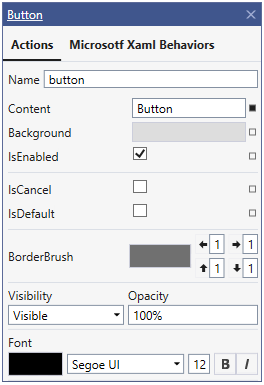
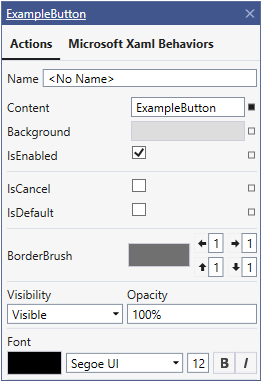
Code Review Fixes

diff --git a/documents/xaml-suggested-actions/xaml-designer-suggested-actions-extensibility.md b/documents/xaml-suggested-actions/xaml-designer-suggested-actions-extensibility.md
@@ -5,82 +5,85 @@
 - [Behaviors](./xaml-designer-suggested-actions-extensibility-behaviors.md)
 - [Customization](./xaml-designer-suggested-actions-extensibility-customization.md)
 
-Starting from Visual Studio 2019 16.7 Preview 3 we added extensibility support for "XAML Suggested Actions"
+In Visual Studio 2019 16.7 Preview 3 we added extensibility support for "XAML Suggested Actions"
 >*Note: this API will be available only in Preview Channel until feature is finalized and completed*
 
-To enable "Xaml Suggested Actions" for any control, `SuggestedActionProvider` feature provider should be created and registered in metadata.
+To enable "Xaml Suggested Actions" for any control, a `SuggestedActionProvider` feature provider should be created and registered in metadata.
 
->*Control could have multiple Suggested Actions providers. Each separate provider will be shown as a separate tab in UI.*
+>*A Control could have multiple Suggested Actions providers. Each provider will be shown as a separate tab in the Suggested Actions UI.*
 
-Example for Button:
+Example:
+```cs
+public class ExampleButton : Button { }
+```
 
 ![extensibility-migration-architecture](xaml-suggested-actions.png)
 
 ### Implementation for example above:
 ```CS
-public class ButtonActionProvider : SuggestedActionProvider
+public class ExampleButtonSuggestedActionProvider : SuggestedActionProvider
 {
-    public static ActionToken Token_Group_Common        = SuggestedActionProviderTokens.Token_Group_Common;
-    public static ActionToken Token_Group_Specific      = SuggestedActionProviderTokens.Token_Group_Specific;
-    public static ActionToken Token_Property_Background = SuggestedActionProviderTokens.Token_Property_Background;
-    public static ActionToken Token_Property_Content    = SuggestedActionProviderTokens.Token_Property_Content;
-    public static ActionToken Token_Property_IsEnabled  = SuggestedActionProviderTokens.Token_Property_IsEnabled;
-    public static ActionToken Token_Property_IsCancel   = new ActionToken(0x1001);
-    public static ActionToken Token_Property_IsDefault  = new ActionToken(0x1002);
+    public static ActionToken Token_Property_IsCancel = new ActionToken(0x1001);
+    public static ActionToken Token_Property_IsDefault = new ActionToken(0x1002);
     public static ActionToken Token_Last = new ActionToken(0x10FF);
-    
-    public override string Header { get => "Actions"; }
-    public override string Type { get => "System.Windows.Controls.Button"; }
-    
+    public override string Header => "Actions";
+    public override string Type => "CustomControlLibrary.WpfCore.ExampleButton";
     public override void Initialize()
     {
         this.ShowNameProperty = true;
         base.Initialize();
-        this.AddGroup(new ActionGroup(ButtonActionProvider.Token_Group_Common,
-            new PropertyAction(ButtonActionProvider.Token_Property_Content, "Content"),
-            new PropertyAction(ButtonActionProvider.Token_Property_Background, "Background"),
-            new PropertyAction(ButtonActionProvider.Token_Property_IsEnabled, "IsEnabled")
-            )); ;
-        this.AddGroup(new ActionGroup(ButtonActionProvider.Token_Group_Specific,
-            new PropertyAction(ButtonActionProvider.Token_Property_IsCancel, "IsCancel"),
-            new PropertyAction(ButtonActionProvider.Token_Property_IsDefault, "IsDefault")));
+        
+        this.AddGroup(new ActionGroup(SuggestedActionProviderTokens.Token_Group_Common,
+            new PropertyAction(SuggestedActionProviderTokens.Token_Property_Content, "Content"),
+            new PropertyAction(SuggestedActionProviderTokens.Token_Property_Background, "Background"),
+            new PropertyAction(SuggestedActionProviderTokens.Token_Property_IsEnabled, "IsEnabled")
+            ));
+        
+        this.AddGroup(new ActionGroup(SuggestedActionProviderTokens.Token_Group_Specific,
+            new PropertyAction(ExampleButtonSuggestedActionProvider.Token_Property_IsCancel,"IsCancel"),
+            new PropertyAction(ExampleButtonSuggestedActionProvider.Token_Property_IsDefault,"IsDefault")));
+        
         this.AddGroup(new BorderBrushActionGroup());
         this.AddGroup(new VisibilityActionGroup());
         this.AddGroup(new FontSettingsActionGroup());
     }
 }
 ```
-### Example for `MyButtonSuggestedActionProvider : ButtonActionProvider`
-```CS
-public class MyButtonSuggestedActionProvider : ButtonActionProvider
-{
-    public static ActionToken Token_Property_CustomProp = ButtonActionProvider.Token_Last + 1;
-    public new static ActionToken Token_Last = new ActionToken(0x2FFF);
-    
-    public override string Type { get => "CustomControlLibrary.MyButton"; }
+### Example for inherited controls
+```cs
+public class ExampleSimpleButton : ExampleButton { }
+```
 
+![extensibility-migration-architecture](xaml-suggested-actions-2.png)
+
+```CS
+public class ExampleSimpleButtonSuggestedActionProvider : ExampleButtonSuggestedActionProvider
+{
+    public static ActionToken Token_Property_CustomProp = ExampleButtonSuggestedActionProviderToken_Last + 1;
+    public new static ActionToken Token_Last = new ActionToken(0x2FFF);
+    public override string Type => "CustomControlLibrary.WpfCore.ExampleSimpleButton";
     public override void Initialize()
     {
         base.Initialize();
-
         //Hide Visibility Group
-        this.GetGroupByToken(SuggestedActionProviderTokens.Token_Group_VisibilitySettings).IsVisible = false;
-
+        this.GetGroupByToken(SuggestedActionProviderTokens.Token_Group_VisibilitySettings).IsVisible =false;
+        
         //Hide IsDefault Property
-        this.GetActionByToken(MyButtonSuggestedActionProvider.Token_Property_IsDefault).IsVisible = false;
-
+        this.GetActionByToken(ExampleSimpleButtonSuggestedActionProvider.Token_Property_IsDefault)IsVisible = false;
+        
         //Add new Opacity (without Token) property after IsDefault (even if it was hidden before)
-        this.InsertAction(new PropertyAction("Opacity"), after: MyButtonSuggestedActionProvider.Token_Property_IsDefault);
-
+        this.InsertAction(new PropertyAction("Opacity"), after:ExampleSimpleButtonSuggestedActionProvider.Token_Property_IsDefault);
+        
         //Add new Link Action after IsDefault - will be inserted after IsDefault, but before Opacity
-        this.InsertAction(new LinkAction("New link", () => { }), after: MyButtonSuggestedActionProviderToken_Property_IsDefault);
+        this.InsertAction(new LinkAction("New link", () => { }), after:ExampleSimpleButtonSuggestedActionProvider.Token_Property_IsDefault);
         
         //Subscribe to ModelItem Property Changed Event to update view if needed
-        this.ModelItemPropertyChanged += MyButtonSuggestedActionProvider_ModelItemPropertyChanged;
+        this.ModelItemPropertyChanged +=ExampleSimpleButtonSuggestedActionProvider_ModelItemPropertyChanged;
     }
     
-    private void MyButtonSuggestedActionProvider_ModelItemPropertyChanged(object sender, System.ComponentModelPropertyChangedEventArgs e)
+    private void ExampleSimpleButtonSuggestedActionProvider_ModelItemPropertyChanged(object sender,PropertyChangedEventArgs e)
     {
+        
     }
 }
 ```
@@ -89,22 +92,24 @@ public class MyButtonSuggestedActionProvider : ButtonActionProvider
 ```CS
 ...
 //Add SuggestionsAttribute to enabled "XAML Suggested Actions for control"
-builder.AddCustomAttributes("System.Windows.Controls.Button", new SuggestionsAttribute());
+builder.AddCustomAttributes("CustomControlLibrary.WpfCore.ExampleButton", new SuggestionsAttribute());
 
 //Add one provider
-builder.AddCustomAttributes("System.Windows.Controls.Button", new FeatureAttribute(typeof(ButtonActionProvider)));
+builder.AddCustomAttributes("CustomControlLibrary.WpfCore.ExampleButton", new FeatureAttribute(typeof(ExampleButtonSuggestedActionProvider)));
 
 //Same for another control
-builder.AddCustomAttributes("CustomControlLibrary.MyButton", new SuggestionsAttribute());
-builder.AddCustomAttributes("CustomControlLibrary.MyButton", new FeatureAttribute(typeof(MyButtonSuggestedActionProvider)));
+builder.AddCustomAttributes("CustomControlLibrary.WpfCore.ExampleSimpleButton", new SuggestionsAttribute());
+builder.AddCustomAttributes("CustomControlLibrary.WpfCore.ExampleSimpleButton", new FeatureAttribute(typeof(ExampleSimpleButtonSuggestedActionProvider)));
 ...
 ```
 
 ### Documentation link
-At the top of 'XAML Suggested Actions' there is a Type Name label.
+![extensibility-migration-architecture](xaml-suggested-actions-documentation.png)
+
+At the top of the Suggested Actions dialog in the designer there is a Type Name label.
 It could be used as a hyperlink to documentation. To enabled it, specify `DocumentationAttribute` in Metadata:
 ```cs
-builder.AddCustomAttributes("System.Windows.Controls.Button", 
-                            new DocumentationAttribute(helpLink: "https://docs.microsoft.com/en-us/dotnet/api/system.windows.controls.button"));
+builder.AddCustomAttributes("System.Windows.Controls.ComboBox", 
+                            new DocumentationAttribute(helpLink: "https://docs.microsoft.com/en-us/dotnet/api/system.windows.controls.combobox"));
 ```
->*If `DocumentationAttribute` has not been added, Type Name label will be static*
+>*If `DocumentationAttribute` has not been added, hyperlink will open documentation for the first parent class that has this attribute, otherwise Type Name label will be static*

diff --git a/documents/xaml-suggested-actions/xaml-designer-suggested-actions-extensibility-customization.md b/documents/xaml-suggested-actions/xaml-designer-suggested-actions-extensibility-customization.md
@@ -1,23 +1,23 @@
 ## Suggested Actions Customization
 
-There are multiple ways you could customize the view of "XAML Suggested Actions":
+There are multiple ways that you can customize the view of "XAML Suggested Actions":
 
 ### 1. Action
 ![extensibility-migration-architecture](xaml-suggested-customAction.png)
 
-To make custom action use `CustomAction` class:
+To make a custom action use `CustomAction` class:
 
 ```cs
 public class MyCustomAction : CustomAction
 {
     private SuggestedActionsResources res = new SuggestedActionsResources();
     
-    public string MyCustomActionText { get; set; }
-    public ICommand ResetCommand { get; set; }
+    public string MyCustomActionText { get; }
+    public ICommand ResetCommand { get; }
     
     public MyCustomAction()
     {
-        this.Template = res["MyCutsomActionTemplate"] as ControlTemplate;
+        this.Template = res["MyCustomActionTemplate"] as ControlTemplate;
         this.MyCustomActionText = "Reset Content:";
         this.ResetCommand = new ResetCommandImpl();
     }
@@ -31,13 +31,16 @@ public class MyCustomAction : CustomAction
         }
         public void Execute(object parameter)
         {
-            (parameter as ModelItem).Content.SetValue("Content");
+            if (parameter is ModelItem modelItem)
+            {
+                modelItem.Content.SetValue("Content");
+            }
         }
     }
 }
 ```
 ```xml
-<ControlTemplate x:Key="MyCutsomActionTemplate">
+<ControlTemplate x:Key="MyCustomActionTemplate">
     <StackPanel Orientation="Vertical">
         <TextBlock Text="{Binding MyCustomActionText}"/>
         <Button Width="60" Height="20" Margin="2" HorizontalAlignment="Center"
@@ -74,7 +77,7 @@ public class MyCustomActionGroup : ActionGroup
 
     public MyCustomActionGroup()
     {
-        this.Template = res["MyCutsomActionGroupTemplate"] as ControlTemplate;
+        this.Template = res["MyCustomActionGroupTemplate"] as ControlTemplate;
     }
 
     public override void Initialize()
@@ -117,7 +120,7 @@ public class MyCustomActionGroup : ActionGroup
 }
 ```
 ```xml
-<ControlTemplate x:Key="MyCutsomActionGroupTemplate">
+<ControlTemplate x:Key="MyCustomActionGroupTemplate">
     <StackPanel Orientation="Vertical">
         <Control Template="{DynamicResource DefaultPropertyActionControlTemplate}"
                  DataContext="{Binding BackgroundProperty}"/>
@@ -154,7 +157,7 @@ public class MyCustomSuggestedActionProvider : SuggestedActionProvider
 
     public override string Header => "Custom SuggestedActionProvider";
     public override string Type => "System.Windows.Controls.Button";
-    public string ShortDocumentation { get; set; }
+    public string ShortDocumentation { get; }
 
     public override void Initialize(ModelItem modelItem)
     {
@@ -199,7 +202,7 @@ public class MyCustomActionProvider : ActionProviderBase
 
     public override string Header => "Documentation";
     public override string Type => "System.Windows.Controls.Grid";
-    public string Documentation { get; set; }
+    public string Documentation { get; }
 
     public override void Initialize(ModelItem modelItem)
     {

diff --git a/documents/xaml-suggested-actions/xaml-designer-suggested-actions-extensibility-features.md b/documents/xaml-suggested-actions/xaml-designer-suggested-actions-extensibility-features.md
@@ -1,6 +1,6 @@
 ## Suggested Actions Features
 
-Currently we have 5 types of actions that could be added:
+In 16.7 there are 5 types of actions that could be added:
 ## *PropertyAction*
 ```cs
 //Simple Property Editor will be shown
@@ -55,13 +55,13 @@ public class MyCustomAction : CustomAction
 {
     private SuggestedActionsResources res = new SuggestedActionsResources();
     
-    public string MyCustomActionText { get; set; }
-    public ICommand ResetCommand { get; set; }
+    public string MyCustomActionText { get; }
+    public ICommand ResetCommand { get; }
     
     public MyCustomAction()
     {
-        this.Template = res["MyCutsomActionTemplate"] as ControlTemplate;
-        this.MyCustomActionText = "Change Content oprions:";
+        this.Template = res["MyCustomActionTemplate"] as ControlTemplate;
+        this.MyCustomActionText = "Change Content options:";
         this.ResetCommand = new ResetCommandImpl();
     }
 
@@ -74,14 +74,17 @@ public class MyCustomAction : CustomAction
         }
         public void Execute(object parameter)
         {
-            (parameter as ModelItem).Content.SetValue("Content");
+            if (parameter is ModelItem modelItem)
+            {
+                modelItem.Content.SetValue("Content");
+            }
         }
     }
 }
 ```
 XAML from `SuggestedActionsResources` ResourceDictionary:
 ```xml
-<ControlTemplate x:Key="MyCutsomActionTemplate">
+<ControlTemplate x:Key="MyCustomActionTemplate">
     <StackPanel Orientation="Vertical">
         <TextBlock Text="{Binding MyCustomActionText}"/>
         <Button Width="60" Height="20" Margin="2" HorizontalAlignment="Center"

diff --git a/documents/xaml-suggested-actions/xaml-designer-suggested-actions-extensibility-behaviors.md b/documents/xaml-suggested-actions/xaml-designer-suggested-actions-extensibility-behaviors.md
@@ -13,7 +13,7 @@ public class ExampleBehaviorActionProvider : BehaviorActionProvider
     //Specify fully qualified type name of a class that implements a Behavior attached property
     public override string BehaviorPropertyTypeFullName => "Microsoft.Xaml.Behaviors.Interaction";
 
-    public override string Header => "Microsotf Xaml Behaviors";
+    public override string Header => "Microsoft Xaml Behaviors";
 
     //Specify full name of control type for which current provider is created.
     public override string Type => "System.Windows.FrameworkElement";

diff --git a/README.md b/README.md
@@ -7,7 +7,7 @@ more recent surface isolation architecture. [This article](./documents/xaml-desi
 
 - [XAML designer extensibility migration](./documents/xaml-designer-extensibility-migration.md)
 - [Toolbox population](./documents/toolbox-population.md)
-- [XAML Suggested Actions Extensibility](./documents/xaml-suggested-actions/xaml-designer-suggested-actions-extensibility.md)
+- [Suggested Actions extensibility](./documents/xaml-suggested-actions/xaml-designer-suggested-actions-extensibility.md)
 
 ## Code Samples
 

diff --git a/documents/xaml-suggested-actions/xaml-designer-suggested-actions-extensibility-tokens.md b/documents/xaml-suggested-actions/xaml-designer-suggested-actions-extensibility-tokens.md
@@ -1,6 +1,6 @@
 ## Suggested Actions Tokens
 
-Each action group and action could have assigned token of type `ActionToken`. Using this token, action group or action could be referenced and modified. Example:
+Each action group and action could have an assigned token of type `ActionToken`. Using this token, the corresponding action group or action can be referenced and modified. Example:
 ```CS
 this.GetGroupByToken(MyButtonSuggestedActionProvider.Token_Group_VisibilitySettings).IsVisible = false;
 
